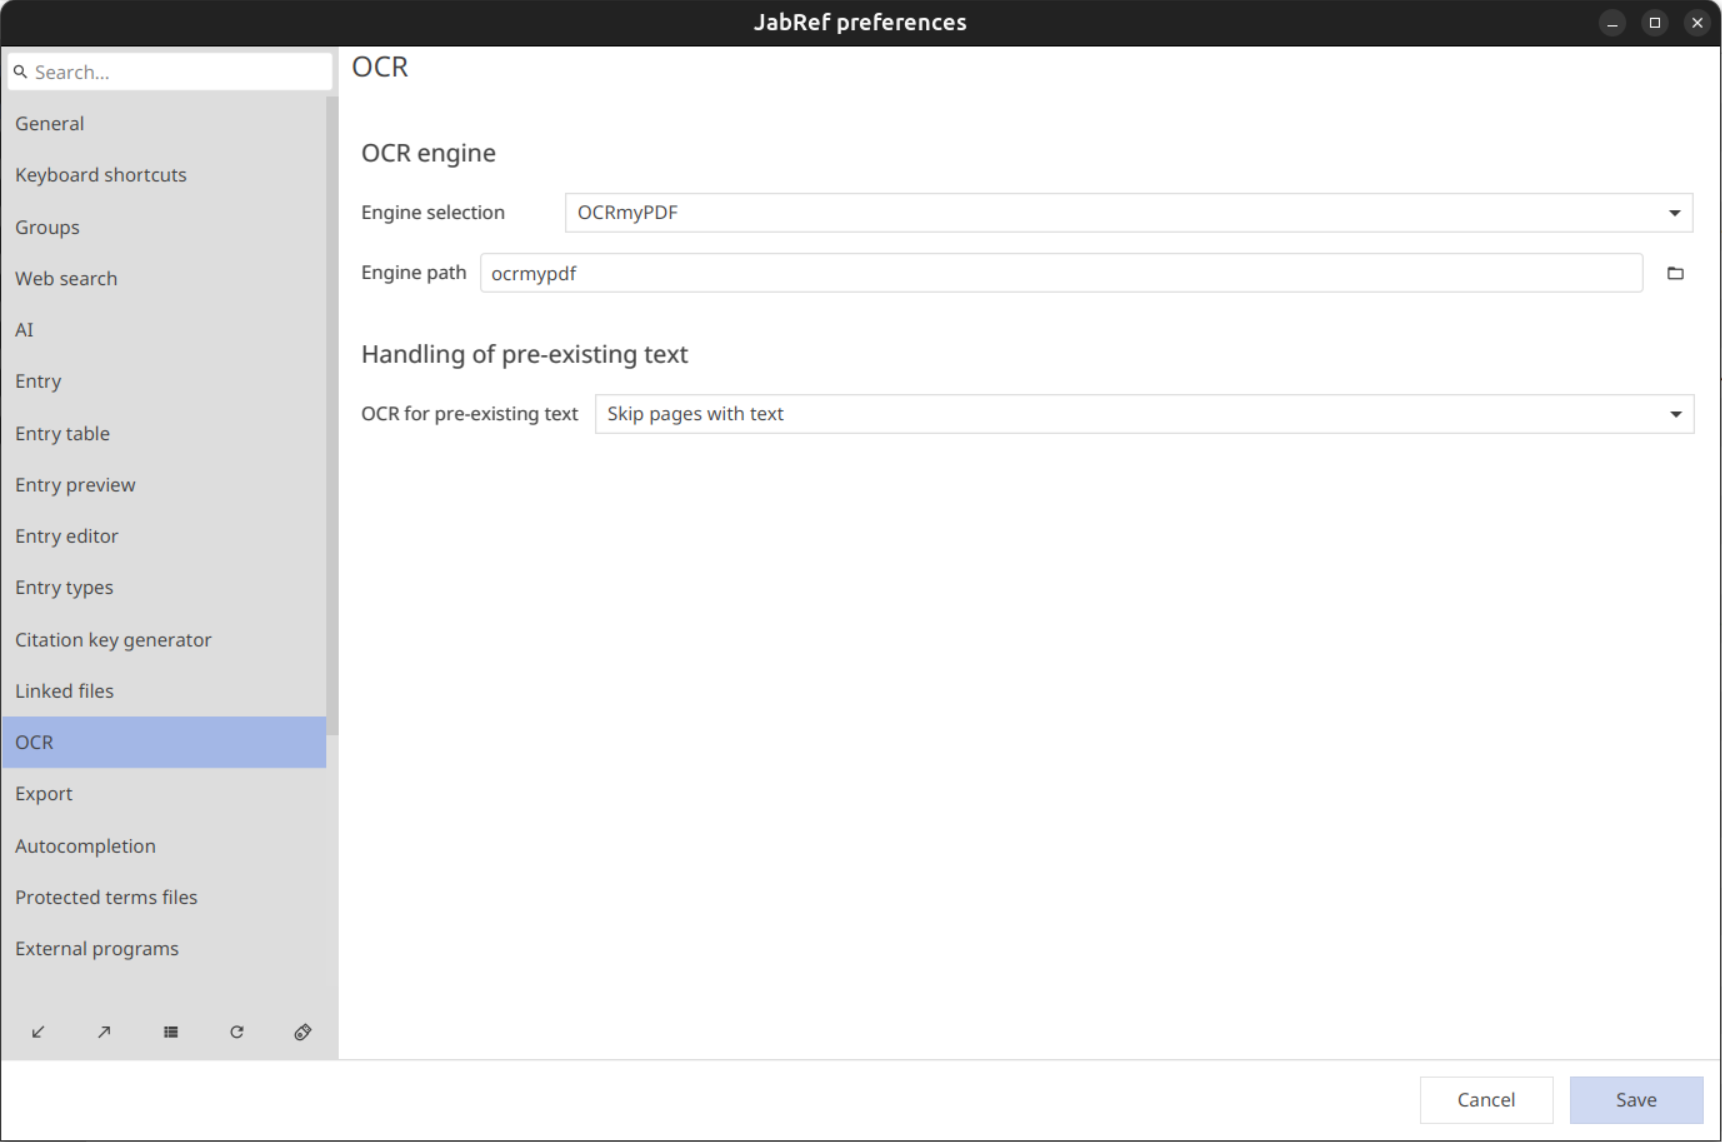
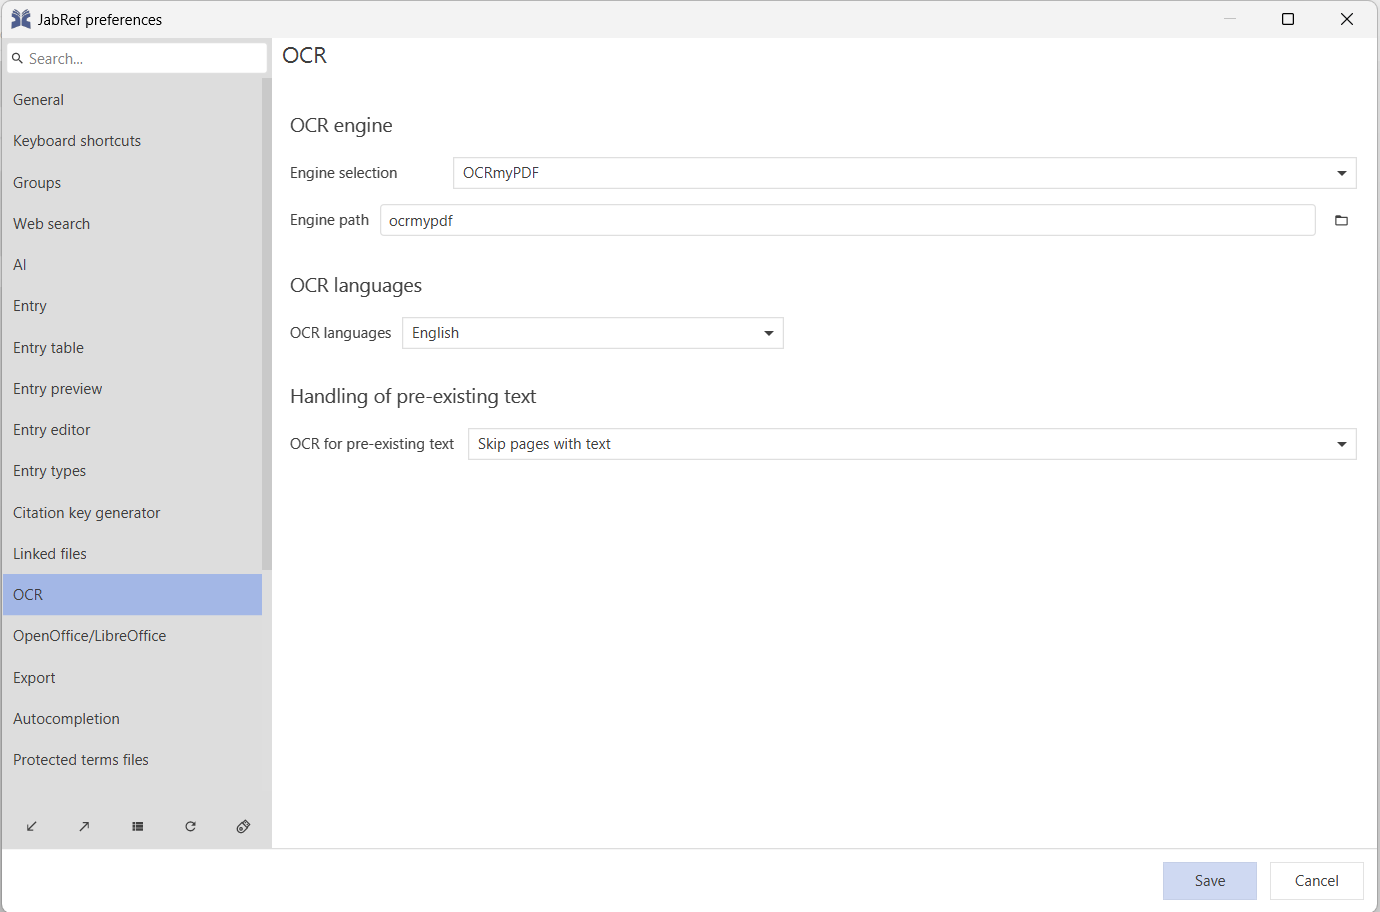
Add documentation and screenshots for OCR language selection (#666)
* Add files via upload

* Add OCR language selection documentation

* Update OCR.md with language pack installation info

Added warning about default language installation for OCR.

diff --git a/en/advanced/OCR.md b/en/advanced/OCR.md
@@ -85,6 +85,22 @@ Performing OCR will fail if wrong engine path is provided, make sure that the co
 
 If none of these succeed, the path field will remain unchanged and you will need to set the path manually.
 
+### Language Selection
+
+* You can select one or multiple languages for OCR text recognition using the **OCR languages** dropdown menu.
+
+    ![OCR language selection](../.gitbook/assets/ocr-language-selection.png)
+
+* **Default behavior:** If no language is selected, JabRef defaults to English (`eng`).
+* **Multiple languages:** You can check multiple languages from the list to improve text recognition accuracy for multilingual documents.
+
+{% hint style="warning" %}
+Only English is installed by default. To use additional languages, you must download the corresponding language packs:
+
+* **For OCRmyPDF (Tesseract):** Follow the [Tesseract language data installation guide](https://tesseract-ocr.github.io/tessdoc/Installation.html#additional-language-data).
+* **For Docling:** See the [Docling language support documentation](https://docling-project.github.io/docling/concepts/OCR/#rapidocr-language-support).
+{% endhint %}
+  
 ### Handling of pre-existing text
 
 * Some PDFs may contain a mix of pages with and without embedded text.
